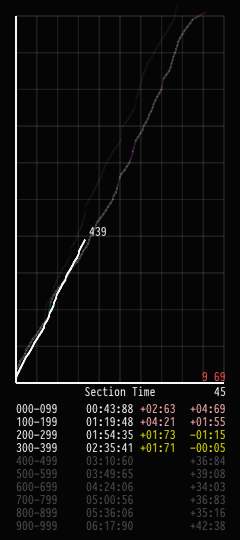
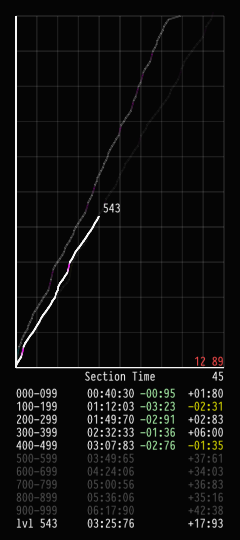
Draw-current-state function

diff --git a/src/draw.c b/src/draw.c
@@ -15,6 +15,39 @@
 
 #include <GLFW/glfw3.h>
 
+static float frameTimeToSeconds(int frames)
+{
+    return frames / TIMER_FPS;
+}
+
+static int frameTime(float seconds)
+{
+    return (seconds * TIMER_FPS);
+}
+
+static void formatTimeToMinutes(char* buf, size_t bufferSize, int frames)
+{
+    float time = frames / 60.0f;
+    int ms = (int)(time * 100) % 100;
+    int m  = time / 60;
+    int s  = (int)time % 60;
+    snprintf(buf, bufferSize, "%02d:%02d:%02d", m, s, ms);
+}
+
+static void formatTimeToSeconds(char* buf, size_t bufferSize, int frames)
+{
+    float time = frames / 60.0f;
+
+    bool neg = time < 0.0f;
+    if (neg)
+        time = -time;
+
+    int ms = (int)(time * 100) % 100;
+    int s  = (int)time % 100;
+    snprintf(buf, bufferSize, "%c%02d:%02d", neg ? '-' : '+', s, ms);
+}
+
+
 void drawSectionGraph(struct draw_data_t* data, float width, float height)
 {
     struct game_t* game = data->game;
@@ -158,7 +191,7 @@ void drawSectionGraph(struct draw_data_t* data, float width, float height)
     drawString(font, (width - strWidth) / 2, graphHeight + font->pixelHeight, "Section Time");
 
     sprintf(levelStr, "%d", (int)scale);
-    drawString(font, width - 10.0f, graphHeight + font->pixelHeight, levelStr);
+    drawString(font, width - 12.0f, graphHeight + font->pixelHeight, levelStr);
 
     // Draw grade and grade points
     if (testMasterConditions(game))
@@ -169,7 +202,7 @@ void drawSectionGraph(struct draw_data_t* data, float width, float height)
     sprintf(levelStr, "%2d %2d",
             game->curState.grade,
             game->curState.gradePoints);
-    drawString(font, width - 28.0f, graphHeight - 2.0f, levelStr);
+    drawString(font, width - 30.0f, graphHeight - 2.0f, levelStr);
 
     /* // Draw some block data */
     /* sprintf(levelStr, "%d %d %d %d %d", */
@@ -213,7 +246,7 @@ void drawInputHistory(struct draw_data_t* data, float width, float height)
         struct element_t* element = &inputHistory->data[i % INPUT_HISTORY_LENGTH];
         for (size_t j = 0; j < element->size; j++)
         {
-            unsigned int index = element->spectrum[j].key;
+            unsigned int index = element->spectrum[j].jkey;
             if (element->spectrum[j].held)
             {
                 index += HELD_BUTTON_OFFSET;
@@ -271,6 +304,42 @@ void drawLineCount(struct draw_data_t* data, float width, float height)
     setGLColor(COLOR_FOREGROUND, 1.0f);
 
     drawString(font, (width - getStringWidth(font, lineCount)) / 2, font->pixelHeight, lineCount);
+}
+
+void drawCurrentState(struct draw_data_t* data, float width, float height)
+{
+    (void) width, (void) height;
+
+    struct game_t* game = data->game;
+    struct font_t* font = data->font;
+    struct section_table_t* table = data->table;
+
+    struct section_t* section = &table->sections[game->currentSection];
+
+    char timerStr[16];
+    formatTimeToMinutes(timerStr, 16, game->curState.timer);
+
+    char curSectionStr[16];
+    formatTimeToSeconds(curSectionStr, 16, game->curState.timer - section->startTime);
+
+    char gameStatsStr[64];
+    snprintf(gameStatsStr, 64,
+             "lvl %03d     %s         %s",
+             game->curState.level,
+             timerStr,
+             curSectionStr);
+
+    /* char lineCount[64]; */
+    /* snprintf(lineCount, 64, "Sec. Lines %2d : %2d : %2d : %2d", */
+    /*         section->lines[0], */
+    /*         section->lines[1], */
+    /*         section->lines[2], */
+    /*         section->lines[3]); */
+
+    setGLColor(COLOR_FOREGROUND, 1.0f);
+
+    drawString(font, 0.0f, font->pixelHeight, gameStatsStr);
+    /* drawString(font, 0.0f, font->pixelHeight * 2, lineCount); */
 }
 
 void drawSectionTable(struct draw_data_t* data, float width, float height)
@@ -413,12 +482,12 @@ void drawSectionTableOverall(struct draw_data_t* data, float width, float height
             char sectionTime[16];
             formatTimeToMinutes(sectionTime, 16, overallPB);
 
-            drawString(font, 70.0f, y, sectionTime);
+            drawString(font, 71.0f, y, sectionTime);
 
             char sectionTimeDiff[16];
             formatTimeToSeconds(sectionTimeDiff, 16, sectionPB);
 
-            drawString(font, 174.0f, y, sectionTimeDiff);
+            drawString(font, 172.0f, y, sectionTimeDiff);
         }
         else
         {
@@ -429,7 +498,7 @@ void drawSectionTableOverall(struct draw_data_t* data, float width, float height
             char sectionTime[16];
             formatTimeToMinutes(sectionTime, 16, section->endTime);
 
-            drawString(font, 70.0f, y, sectionTime);
+            drawString(font, 71.0f, y, sectionTime);
 
             char overallTimeDiff[16];
             formatTimeToSeconds(overallTimeDiff, 16, section->endTime - overallPB);
@@ -451,7 +520,7 @@ void drawSectionTableOverall(struct draw_data_t* data, float width, float height
             else
                 setGLColor(COLOR_FOREGROUND, 1.0f);
 
-            drawString(font, 174.0f, y, sectionTimeDiff);
+            drawString(font, 172.0f, y, sectionTimeDiff);
         }
 
         y += vertStride;

diff --git a/src/tracker.c b/src/tracker.c
@@ -34,8 +34,9 @@ bool runTracker(struct tap_state* dataPtr, struct tracker_settings_t settings)
 
     struct window_t mainWindow = createWindow(240, 540, "TapTracker Graph", NULL);
     createLayoutContainer(&mainWindow.layout, mainWindow.width, mainWindow.height, 14.0f, 2.0f);
-    addToContainerRatio(&mainWindow.layout, &drawSectionGraph, 0.75f);
-    addToContainerRatio(&mainWindow.layout, &drawSectionTableOverall, 1.00f);
+    addToContainerRatio(&mainWindow.layout, &drawSectionGraph, 0.72f);
+    addToContainerFixed(&mainWindow.layout, &drawSectionTableOverall, 130.0f);
+    addToContainerFixed(&mainWindow.layout, &drawCurrentState, 14.0f);
     /* addToContainerRatio(&mainWindow.layout, &drawSectionTable, 1.00f); */
     /* addToContainerRatio(&mainWindow.layout, &drawSectionTableOverall, 1.00f); */
 
@@ -92,15 +93,15 @@ bool runTracker(struct tap_state* dataPtr, struct tracker_settings_t settings)
 
         glfwPollEvents();
 
+        drawWindowLayout(&mainWindow, &data);
+
         // Update input history
         if (settings.joystick)
         {
             updateButtons(joystick);
             pushInputFromJoystick(history, joystick);
+            drawWindowLayout(&subWindow, &data);
         }
-
-        drawWindowLayout(&mainWindow, &data);
-        drawWindowLayout(&subWindow, &data);
     }
 
     section_table_destroy(table);

diff --git a/src/draw.h b/src/draw.h
@@ -26,6 +26,7 @@ void drawSectionGraph(struct draw_data_t* data, float width, float height);
 void drawInputHistory(struct draw_data_t* data, float width, float height);
 
 void drawLineCount(struct draw_data_t* data, float width, float height);
+void drawCurrentState(struct draw_data_t* data, float width, float height);
 
 void drawSectionTable(struct draw_data_t* data, float width, float height);
 void drawSectionTableOverall(struct draw_data_t* data, float width, float height);

diff --git a/src/font.h b/src/font.h
@@ -46,8 +46,6 @@ void _loadTTF_file(const char* filename, uint8_t** ttfData);
 // Load a bitmap into a font's texture handle.
 void _bindFontTexture(struct font_t* font, uint8_t* bitmap);
 
-struct font_t* _createFont(struct font_t* font);
-
 struct font_t* loadTTF(struct font_t* font, const char* filename, float pixelHeight);
 struct font_t* loadBitmapFontFiles(struct font_t* font, const char* imgFile, const char* binFile);
 struct font_t* loadBitmapFontData(struct font_t* font,

diff --git a/src/gamehistory.h b/src/gamehistory.h
@@ -3,7 +3,7 @@
 
 #include "tap_state.h"
 
-#define MAX_GAME_HISTORY_COUNT 16
+#define MAX_GAME_HISTORY_COUNT 32
 
 struct game_history_t
 {
@@ -26,6 +26,5 @@ float averageHistoryStats(struct game_history_t* gh,
 
 float averageDeathLevel(struct game_history_t* gh);
 float averageMasterGrade(struct game_history_t* gh);
-
 
 #endif /* GAMEHISTORY_H */
